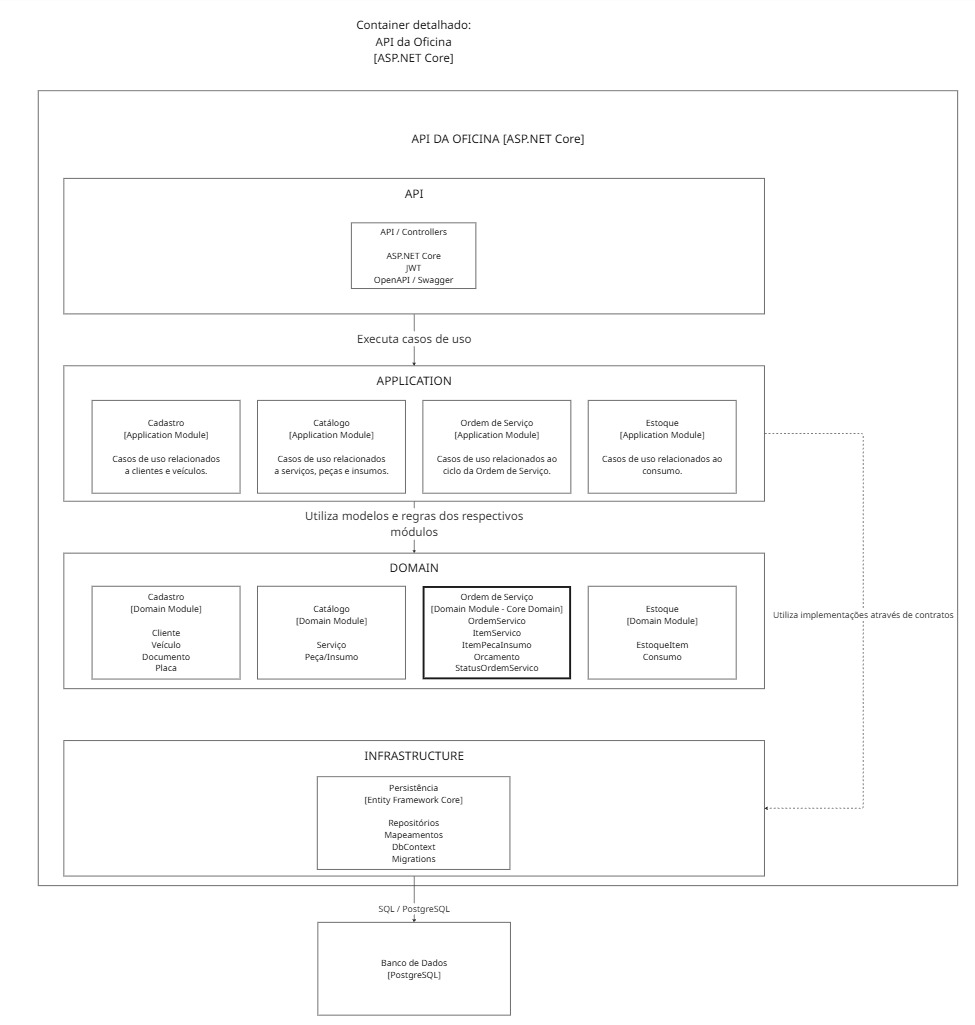
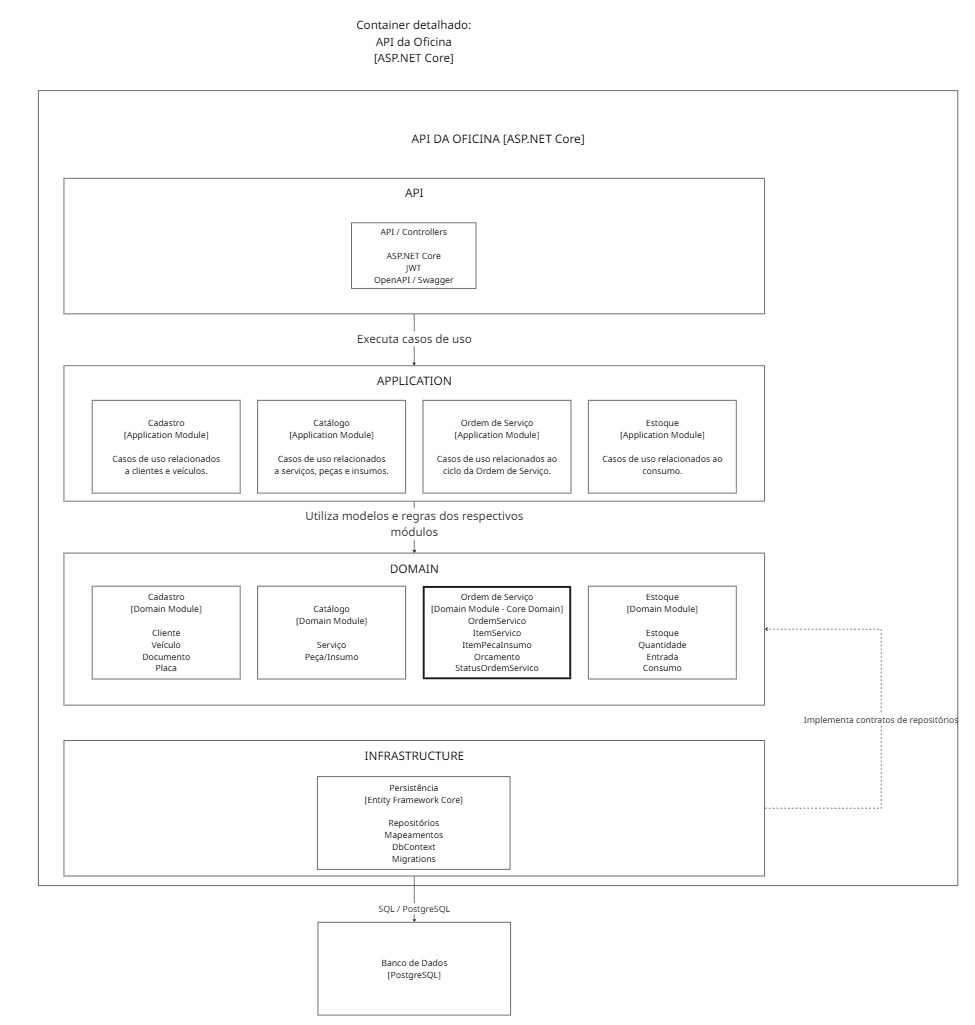
docs: alinha DDD, requisitos e C4 ao modelo atual

diff --git a/docs/ddd/decisoes-dominio.md b/docs/ddd/decisoes-dominio.md
@@ -24,26 +24,37 @@ O cadastro de peças e insumos e o controle de suas quantidades
 possuem responsabilidades distintas.
 
 O Catálogo será responsável pelas informações descritivas e
-comerciais do item, enquanto o Estoque será responsável pelas
-quantidades físicas, reservadas e disponíveis.
+comerciais do item, enquanto o Estoque será responsável pelo
+controle da quantidade existente.
 
-## DD005 - Momento da reserva de estoque
+## DD005 - Modelo simplificado de estoque
 
-A reserva das peças e insumos necessários para uma Ordem de Serviço
-será realizada após a aprovação do orçamento.
+O MVP não realizará reserva de estoque para as Ordens de Serviço.
 
-A inclusão de um item durante o diagnóstico não representará
-consumo nem reserva automática de estoque.
+O estoque manterá uma única quantidade representando o saldo atual
+de cada peça ou insumo.
+
+A inclusão de uma peça ou insumo na Ordem de Serviço não altera
+automaticamente o estoque.
 
 ## DD006 - Momento da baixa de estoque
 
-A baixa física do estoque ocorrerá quando a peça ou insumo for
-registrado como consumido durante a execução da Ordem de Serviço.
+A quantidade em estoque será reduzida quando uma peça ou insumo
+for efetivamente registrado como consumido durante a execução
+da Ordem de Serviço.
 
-## DD007 - Disponibilidade de estoque
+A simples inclusão do item no orçamento ou na Ordem de Serviço
+não representa consumo de estoque.
 
-A quantidade disponível será calculada considerando a quantidade
-física menos a quantidade reservada.
+## DD007 - Controle da quantidade em estoque
+
+O estoque utilizará uma única quantidade para representar o saldo
+atual de uma peça ou insumo.
+
+Não serão mantidos, no MVP, conceitos separados de quantidade física,
+quantidade reservada e quantidade disponível.
+
+Não será permitido registrar consumo superior ao saldo atual.
 
 ## DD008 - Core Domain
 
@@ -75,8 +86,20 @@ já registrados em Ordens de Serviço existentes.
 
 ## DD011 - Responsabilidade sobre o estoque
 
-As regras relativas às quantidades físicas, reservadas e disponíveis
-pertencem ao contexto de Estoque.
+As regras relacionadas ao controle da quantidade dos itens pertencem
+ao contexto de Estoque.
 
-A Ordem de Serviço poderá solicitar operações de reserva e consumo,
-mas não será responsável por alterar diretamente os saldos do estoque.
+A Ordem de Serviço poderá registrar o consumo de peças e insumos
+durante sua execução, mas não será responsável por alterar diretamente
+a quantidade mantida pelo Estoque.
+
+## DD012 - Representação de peças e insumos
+
+Peças e insumos serão representados por um único conceito de domínio.
+
+A distinção entre os dois tipos será realizada através de um tipo
+enumerado contendo os valores Peça e Insumo.
+
+Essa decisão evita duplicação de estruturas e regras para conceitos
+que, dentro do escopo atual do sistema, possuem o mesmo ciclo de vida
+e comportamento.

diff --git a/docs/ddd/regras-negocio.md b/docs/ddd/regras-negocio.md
@@ -20,8 +20,10 @@ os serviços, peças e insumos incluídos na Ordem de Serviço.
 
 ## RN005 - Execução após aprovação
 
-Uma Ordem de Serviço que necessita aprovação do orçamento somente poderá
-iniciar sua execução depois da aprovação do cliente.
+Uma Ordem de Serviço somente poderá iniciar sua execução depois da
+aprovação do orçamento pelo cliente.
+
+A rejeição do orçamento não autoriza o início da execução.
 
 ## RN006 - Estados da Ordem de Serviço
 
@@ -34,22 +36,29 @@ A Ordem de Serviço poderá assumir os seguintes estados:
 - Finalizada;
 - Entregue.
 
-## RN007 - Reserva de estoque
+## RN007 - Alteração do estoque
 
-Após a aprovação do orçamento, as peças e insumos necessários
-deverão ser reservados, desde que exista quantidade disponível.
+A inclusão de uma peça ou insumo em uma Ordem de Serviço não deverá
+alterar automaticamente a quantidade em estoque.
 
-## RN008 - Disponibilidade para reserva
+A baixa ocorrerá somente quando o item for efetivamente consumido.
 
-Não será permitida a reserva de uma quantidade superior à
-quantidade disponível do item.
+## RN008 - Disponibilidade para consumo
+
+Não será permitido consumir uma quantidade de peça ou insumo superior
+à quantidade existente em estoque.
 
 ## RN009 - Consumo de estoque
 
-O estoque físico deverá ser reduzido quando uma peça ou insumo
-reservado for efetivamente consumido pela Ordem de Serviço.
+A quantidade em estoque deverá ser reduzida quando uma peça ou insumo
+for efetivamente consumido durante a execução da Ordem de Serviço.
 
 ## RN010 - Quantidade de estoque
 
-As quantidades física e reservada de um item de estoque não
-poderão assumir valores negativos.
+A quantidade em estoque de uma peça ou insumo não poderá assumir
+valor negativo.
+
+## RN011 - Decisão sobre o orçamento
+
+O cliente poderá aprovar ou rejeitar o orçamento disponibilizado
+para sua análise.

diff --git a/docs/architecture/c4/c4-componentes.md b/docs/architecture/c4/c4-componentes.md
@@ -56,9 +56,6 @@ A camada é organizada nos módulos:
 - Ordem de Serviço;
 - Estoque.
 
-Também contém contratos necessários à execução dos casos de uso,
-como abstrações para persistência.
-
 ## Domain
 
 A camada Domain concentra o modelo de domínio e suas regras.
@@ -69,7 +66,8 @@ Contém:
 - entidades;
 - Value Objects;
 - invariantes;
-- enums e demais conceitos do negócio.
+- enums e demais conceitos do negócio;
+- contratos dos repositórios dos agregados.
 
 É organizada nos módulos:
 
@@ -91,8 +89,8 @@ ItemPecaInsumo, Orcamento e StatusOrdemServico.
 
 ### Estoque
 
-Contém as regras relacionadas ao controle das quantidades físicas,
-reservadas e disponíveis dos itens de estoque.
+Contém as regras relacionadas ao controle da quantidade em estoque,
+incluindo entrada e consumo de peças e insumos.
 
 ## Infrastructure
 
@@ -108,8 +106,8 @@ Responsabilidades:
 - migrations;
 - acesso ao PostgreSQL.
 
-A Infrastructure implementa contratos definidos pelas camadas
-internas, permitindo que o domínio permaneça independente das
+A Infrastructure implementa os contratos de repositórios definidos
+no Domain, permitindo que o domínio permaneça independente das
 tecnologias utilizadas para persistência.
 
 ## Dependências

diff --git a/docs/requirements/requisitos.md b/docs/requirements/requisitos.md
@@ -44,6 +44,7 @@ O MVP será composto por um back-end monolítico disponibilizando APIs REST.
 | RF015 | O sistema deve controlar o status da Ordem de Serviço. |
 | RF016 | O sistema deve permitir consultar e detalhar Ordens de Serviço. |
 | RF017 | O sistema deve permitir consultar o tempo médio de execução dos serviços. |
+| RF018 | O sistema deve permitir registrar a aprovação ou rejeição do orçamento pelo cliente. |
 
 ## Requisitos Não Funcionais
 
@@ -61,3 +62,4 @@ O MVP será composto por um back-end monolítico disponibilizando APIs REST.
 | RNF010 | A aplicação deverá possuir Dockerfile. |
 | RNF011 | O ambiente deverá possuir docker-compose. |
 | RNF012 | O projeto deverá possuir instruções para execução local. |
+| RNF013 | Os principais fluxos que envolvam múltiplas alterações persistentes deverão possuir tratamento transacional adequado, evitando gravações parciais. |

diff --git a/docs/ddd/context-map.md b/docs/ddd/context-map.md
@@ -51,11 +51,8 @@ Responsável pelo controle quantitativo das peças e insumos.
 
 Principais conceitos:
 
-- quantidade física;
-- quantidade reservada;
-- quantidade disponível;
+- quantidade;
 - entrada;
-- reserva;
 - consumo.
 
 ## Relacionamentos
@@ -73,8 +70,8 @@ aplicáveis no momento de sua inclusão.
 
 ### Ordem de Serviço → Estoque
 
-Após a aprovação do orçamento, o contexto de Ordem de Serviço
-solicita a reserva das peças e insumos necessários.
+Durante a execução dos serviços, o contexto de Ordem de Serviço
+registra o consumo das peças e insumos utilizados.
 
-Durante a execução, o consumo dos itens deverá ser refletido pelo
-contexto de Estoque.
+O contexto de Estoque é responsável por validar e atualizar
+as quantidades existentes.

diff --git a/docs/ddd/linguagem-ubiqua.md b/docs/ddd/linguagem-ubiqua.md
@@ -72,6 +72,14 @@ na Ordem de Serviço.
 Decisão do cliente autorizando a execução dos serviços apresentados
 no orçamento.
 
+## Rejeição do Orçamento
+
+Decisão do cliente de não autorizar a execução dos serviços
+apresentados em um orçamento.
+
+Um orçamento rejeitado não permite o início da execução
+da Ordem de Serviço.
+
 ## Status da Ordem de Serviço
 
 Representa a situação atual de uma Ordem de Serviço durante o fluxo

diff --git a/docs/architecture/arquitetura.md b/docs/architecture/arquitetura.md
@@ -130,5 +130,5 @@ Core Domain responsável pelo ciclo de atendimento do veículo.
 
 ### Estoque
 
-Controle das quantidades físicas, reservadas e disponíveis dos
-itens utilizados pela oficina.
+Controle da quantidade existente de peças e insumos, incluindo
+operações de entrada e consumo de estoque.
